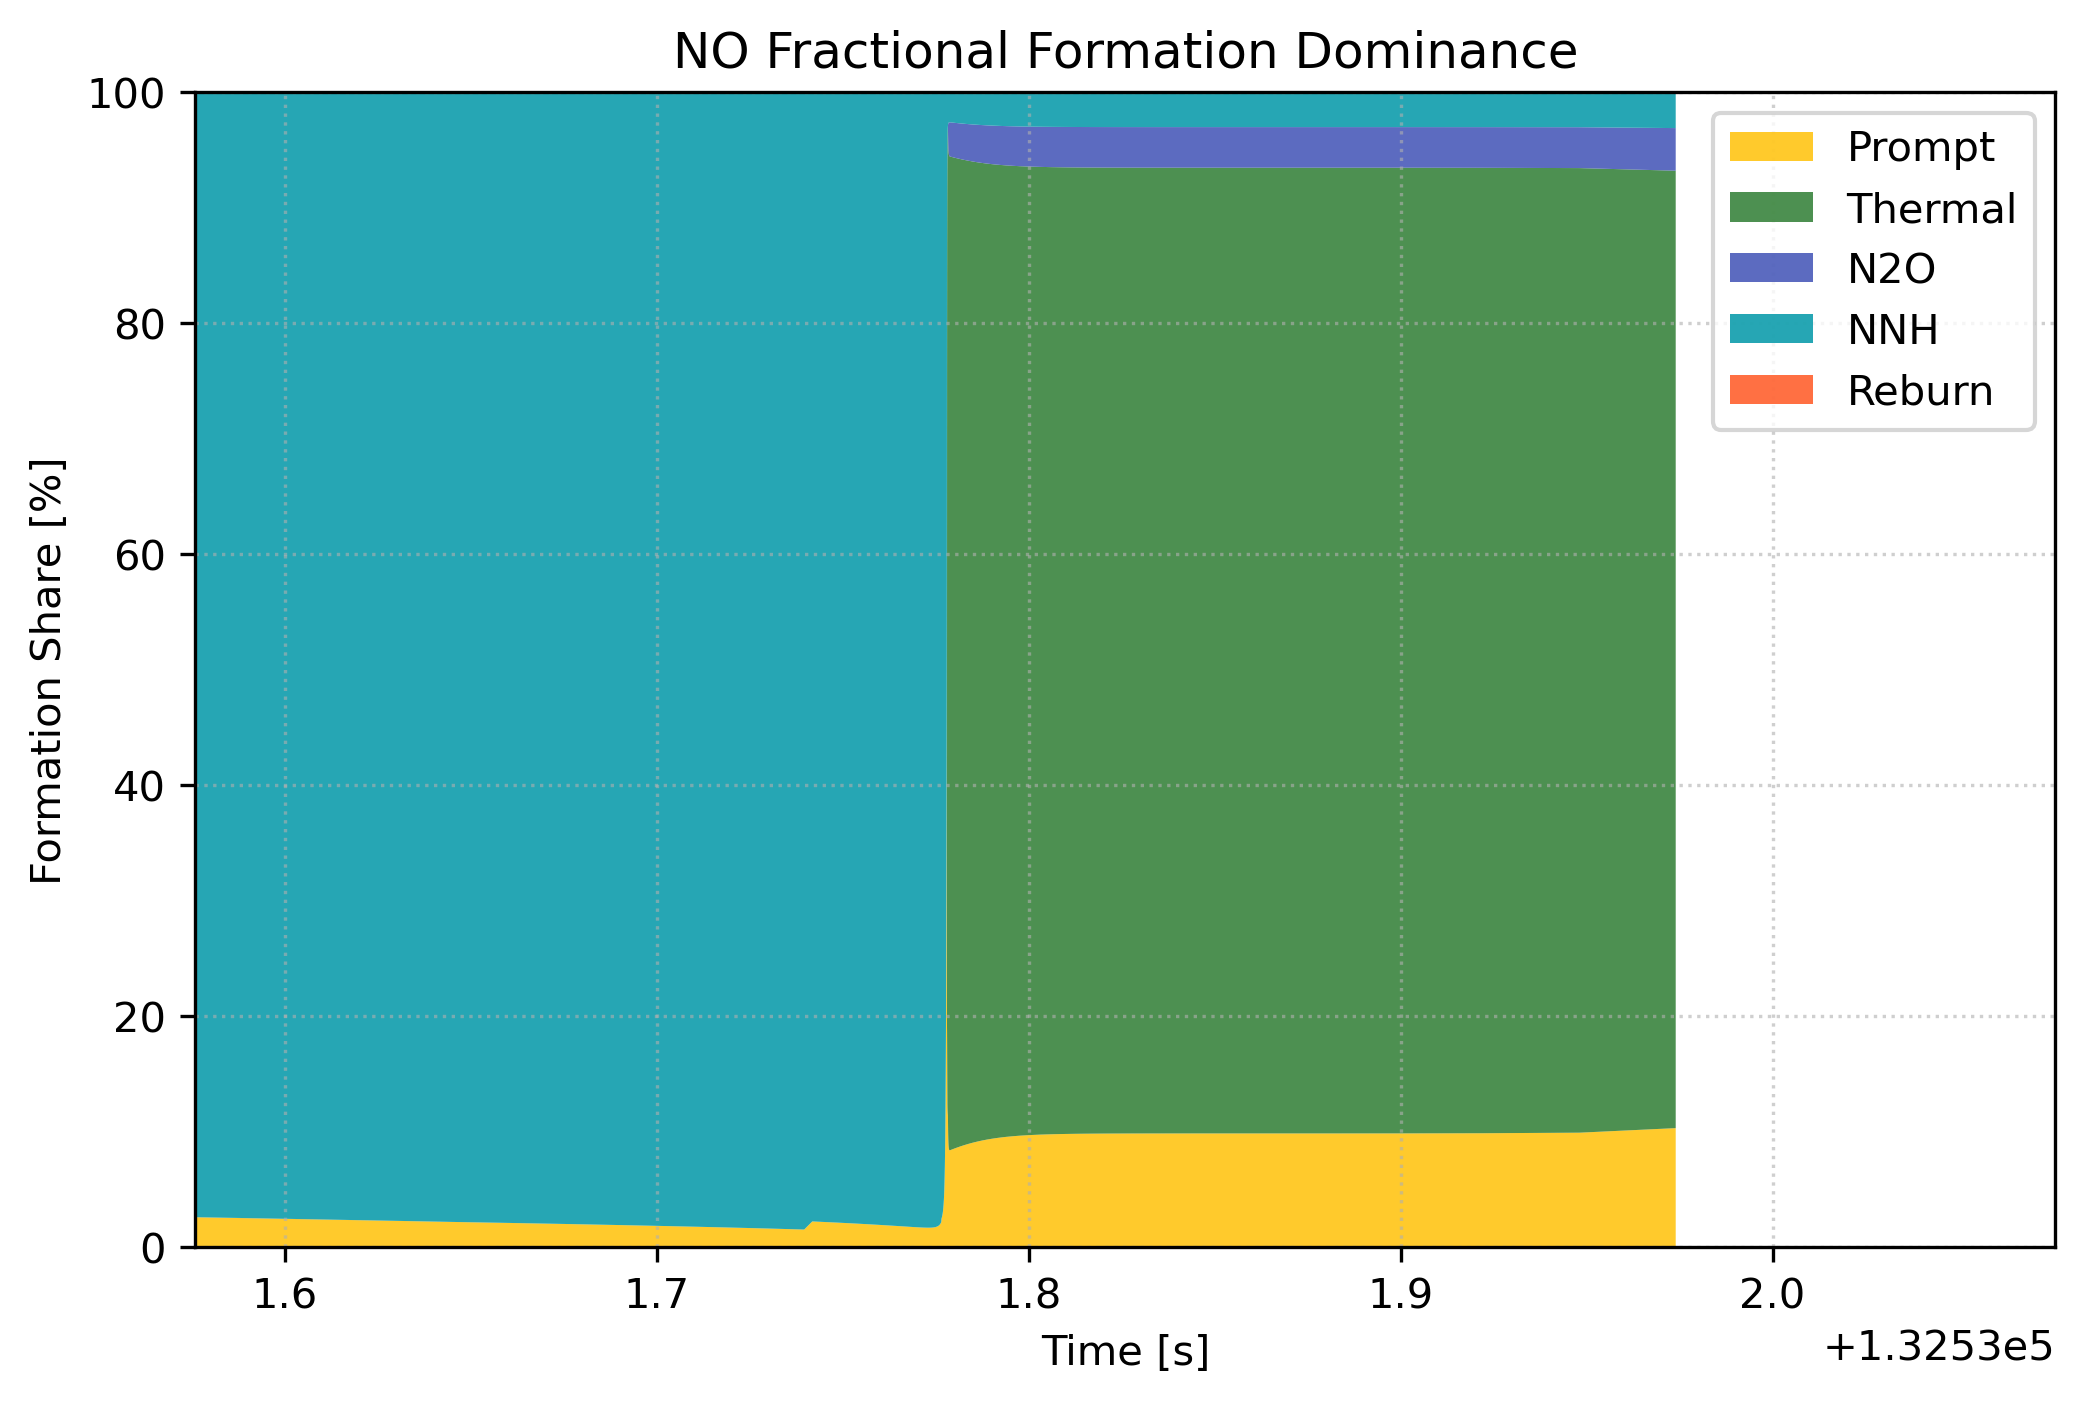
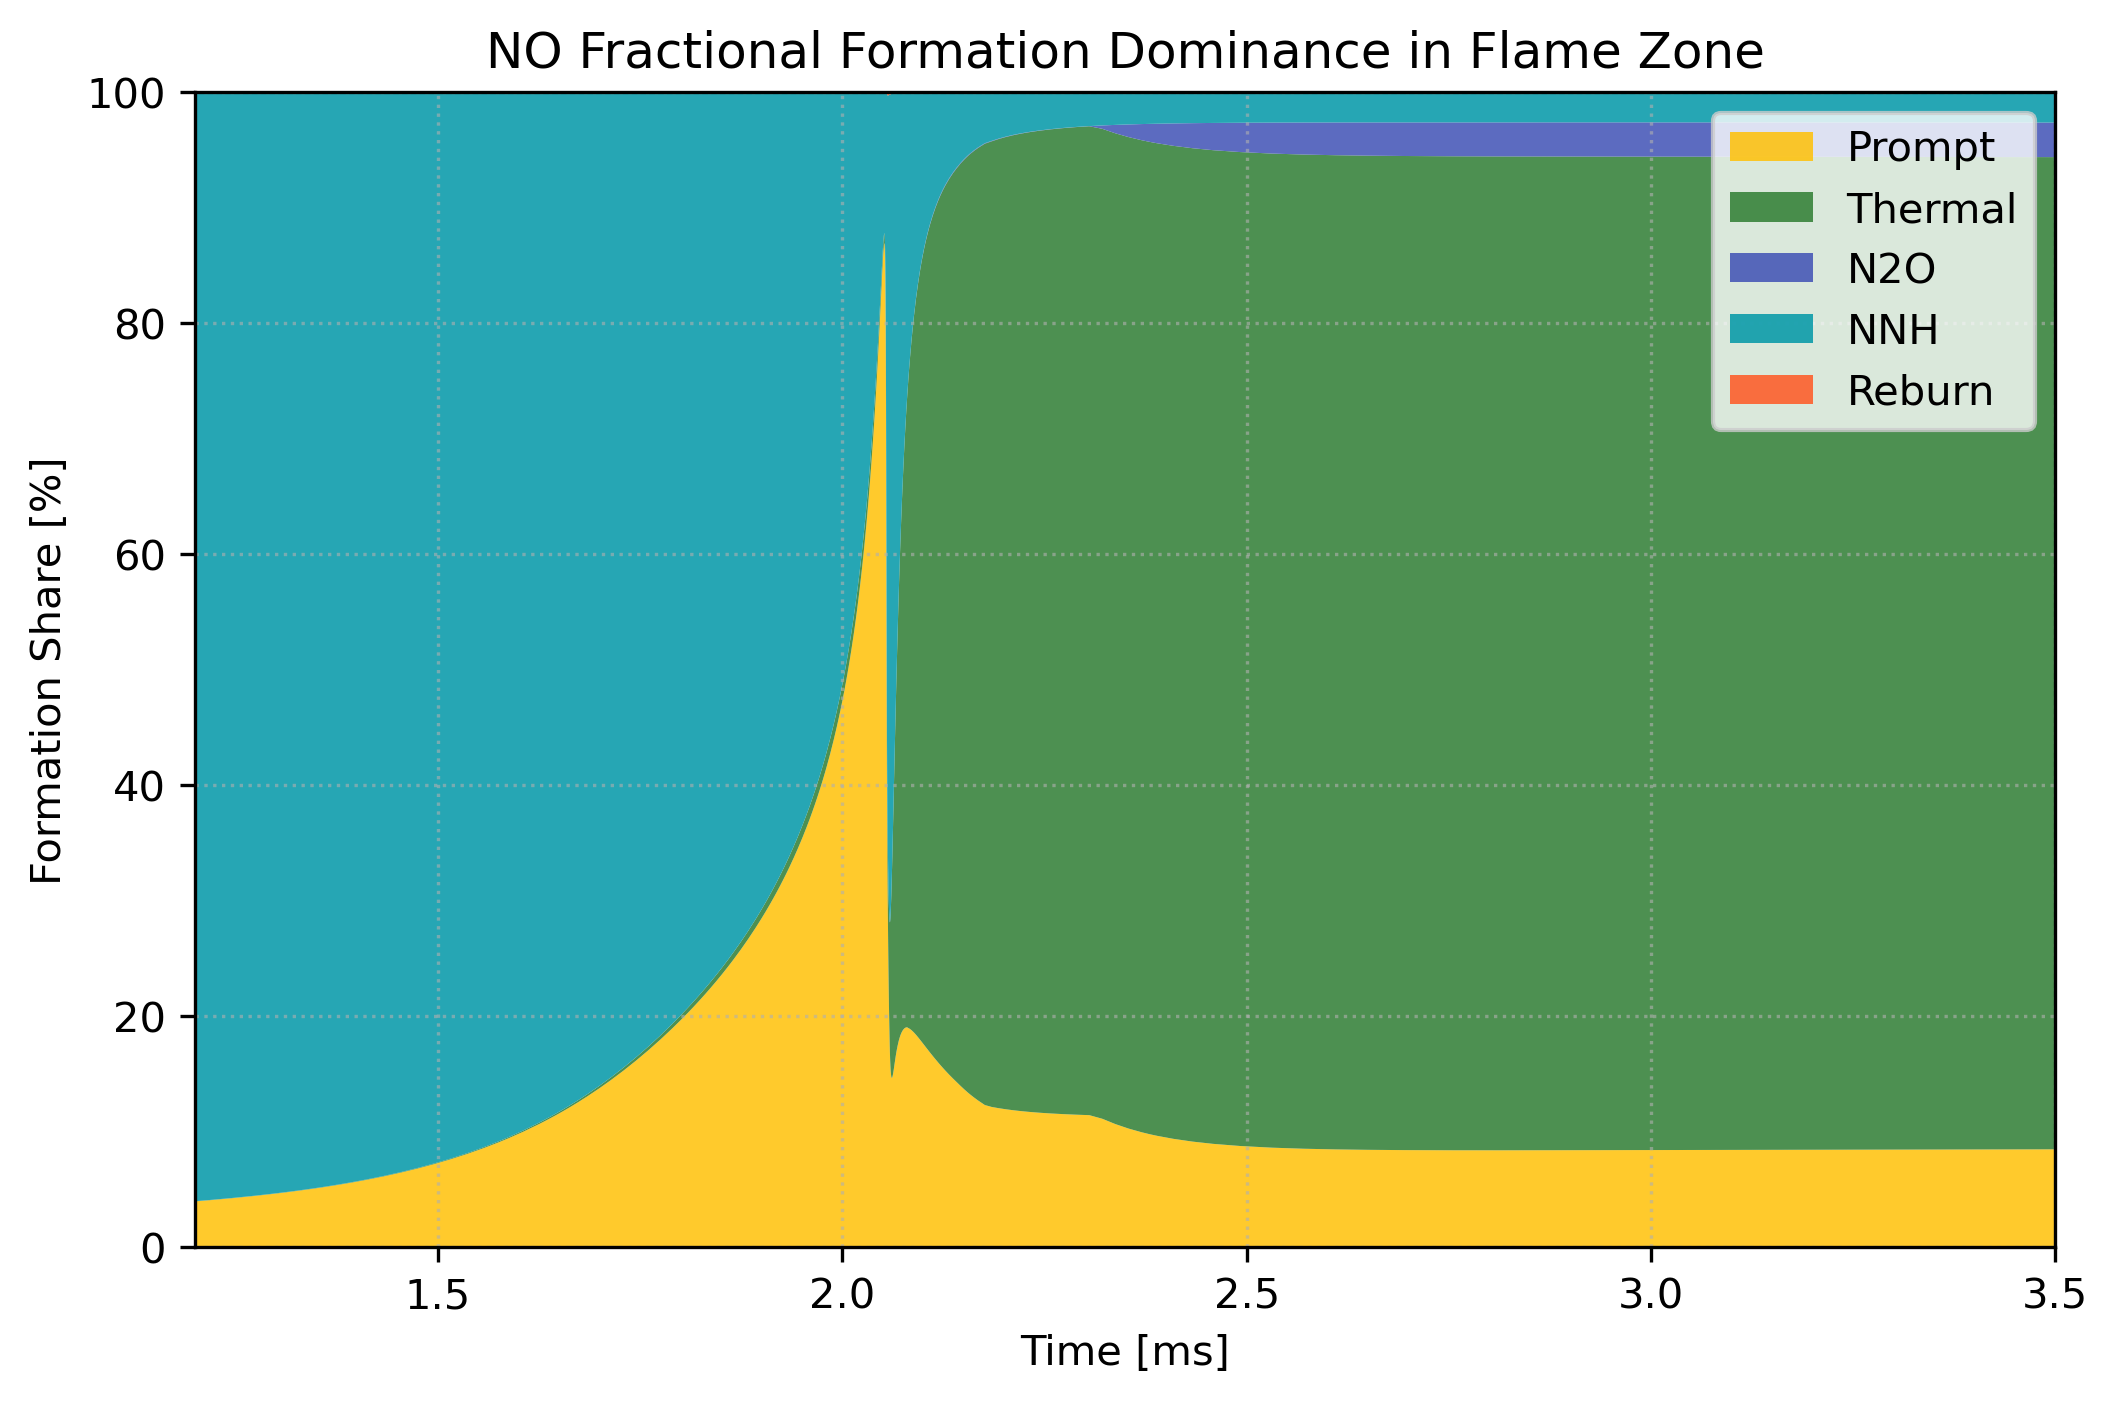
fix(plots): zoom in x-limits to clearly capture in-flame reaction zone dynamics

diff --git a/examples/01_single_stage_premixed.py b/examples/01_single_stage_premixed.py
@@ -40,6 +40,10 @@ def main():
     print(f"   Trajectory generated: {len(df)} states across auto-ignition.")
     print(f"   Temperature span: {df['T'].min():.1f} K -> {df['T'].max():.1f} K.")
 
+    # Zero-shift time relative to ignition onset (T >= 1000 K) so flame dynamics are centered
+    t_ignition = df.loc[df["T"] >= 1000.0, "time"].iloc[0]
+    df["time"] = df["time"] - t_ignition
+
     print("\n2. Executing pySMART Reaction Pathway Analysis...")
     result = smart.analyze(
         df=df,
@@ -56,25 +60,23 @@ def main():
     df_yields = result.get_cumulative_yields(target="NO")
     print(df_yields.to_string(index=False))
 
-    print("\n4. Generating publication diagnostic plots...")
+    print("\n4. Generating publication diagnostic plots zoomed in on flame zone...")
     
-    # 4a. Time-resolved allocated rates (U matrix)
-    # The flame reaction occurs over a sharp window, so we center x-limits around the active ignition zone
-    t_ignition = df.loc[df["T"] > 1000.0, "time"].iloc[0]
-    dt_window = 0.5  # 500 ms window covering induction through post-flame
-    t_min = max(0.0, t_ignition - 0.2)
-    t_max = t_ignition + 0.3
+    # Flame zone window: Prompt NO spikes at ~2.05 ms and Thermal NO rises at ~2.08 ms
+    # Zooming in to [1.2, 3.5] ms clearly exposes the flame front radical dynamics and prompt peak!
+    flame_xlim = (1.2, 3.5)
 
-    fig_rates, ax_rates = result.plot_rates(target="NO", t_ms=False)
-    ax_rates.set_xlim(t_min, t_max)
-    ax_rates.set_title("Allocated NO Source Rate (U Matrix)")
+    # 4a. Time-resolved allocated rates (U matrix)
+    fig_rates, ax_rates = result.plot_rates(target="NO", t_ms=True)
+    ax_rates.set_xlim(flame_xlim)
+    ax_rates.set_title("Allocated NO Source Rate in Flame Zone (U Matrix)")
     fig_rates.savefig("examples/01_rates_no.png", dpi=300, bbox_inches="tight")
     print("   Saved: examples/01_rates_no.png")
 
     # 4b. Fractional formation dominance stackplot
-    fig_dom, ax_dom = result.plot_dominance(target="NO", t_ms=False)
-    ax_dom.set_xlim(t_min, t_max)
-    ax_dom.set_title("NO Fractional Formation Dominance")
+    fig_dom, ax_dom = result.plot_dominance(target="NO", t_ms=True)
+    ax_dom.set_xlim(flame_xlim)
+    ax_dom.set_title("NO Fractional Formation Dominance in Flame Zone")
     fig_dom.savefig("examples/01_dominance_no.png", dpi=300, bbox_inches="tight")
     print("   Saved: examples/01_dominance_no.png")
 
@@ -85,9 +87,9 @@ def main():
     print("   Saved: examples/01_phase_portrait_no.png")
 
     # 4d. Cumulative accounting pools Q
-    fig_pools, ax_pools = result.plot_pools(target="NO", t_ms=False)
-    ax_pools.set_xlim(t_min, t_max)
-    ax_pools.set_title("Cumulative NO Accounting Pools (Q Matrix)")
+    fig_pools, ax_pools = result.plot_pools(target="NO", t_ms=True)
+    ax_pools.set_xlim(flame_xlim)
+    ax_pools.set_title("Cumulative NO Pools in Flame Zone (Q Matrix)")
     fig_pools.savefig("examples/01_pools_no.png", dpi=300, bbox_inches="tight")
     print("   Saved: examples/01_pools_no.png")
 

diff --git a/examples/02_multistage_staged_combustion.py b/examples/02_multistage_staged_combustion.py
@@ -101,11 +101,14 @@ def main():
     df, t_stage1_end = simulate_nrrl_staged_combustor()
     print(f"   Total composite trajectory: {len(df)} points across 2 stages.")
 
+    # Zero-shift time relative to the stage interface (t=0 at secondary fuel injection)
+    df["time_rel_boundary"] = df["time"] - t_stage1_end
+
     print("\n2. Executing pySMART Multi-Stage Jump Tracking (SMART-MS)...")
     result = smart.analyze(
         df=df,
         mech="gri30.yaml",
-        time_col="time",
+        time_col="time_rel_boundary",
         tracked_element="N",
         target_species="NO",
         stage_col="stage",    # Enables discrete stage mass-jump tracking
@@ -125,24 +128,34 @@ def main():
     df_hcn = result.get_cumulative_yields(target="HCN")
     print(df_hcn.to_string(index=False))
 
-    print("\n6. Generating diagnostic plots across stage boundary...")
+    print("\n6. Generating diagnostic plots zoomed in on stage interface & rich reaction zone...")
+    # Zoom limits: [-0.3 ms, 1.2 ms] around stage boundary
+    # Shows late Stage 1 flame exit followed by instantaneous mixing jump and rich reburning!
+    zoom_xlim = (-0.3, 1.2)
+
     # Plot NO rates
     fig_rates, ax_rates = result.plot_rates(target="NO", t_ms=True)
-    ax_rates.axvline(t_stage1_end * 1e3, color="gray", linestyle=":", label="Stage Boundary")
+    ax_rates.set_xlim(zoom_xlim)
+    ax_rates.axvline(0.0, color="gray", linestyle=":", label="Stage Boundary (t=0)")
+    ax_rates.set_title("Allocated NO Rates Across Stage Interface (SMART-MS)")
     ax_rates.legend(frameon=True)
     fig_rates.savefig("examples/02_multistage_rates_no.png", dpi=300, bbox_inches="tight")
     print("   Saved: examples/02_multistage_rates_no.png")
 
     # Plot NO pools
     fig_pools, ax_pools = result.plot_pools(target="NO", t_ms=True)
-    ax_pools.axvline(t_stage1_end * 1e3, color="gray", linestyle=":", label="Stage Boundary")
+    ax_pools.set_xlim(zoom_xlim)
+    ax_pools.axvline(0.0, color="gray", linestyle=":", label="Stage Boundary (t=0)")
+    ax_pools.set_title("Cumulative NO Pools Across Stage Interface (SMART-MS)")
     ax_pools.legend(frameon=True)
     fig_pools.savefig("examples/02_multistage_pools_no.png", dpi=300, bbox_inches="tight")
     print("   Saved: examples/02_multistage_pools_no.png")
 
     # Plot HCN rates (mirroring NRRL splt.plot_results_f target_sp='HCN')
     fig_hcn, ax_hcn = result.plot_rates(target="HCN", t_ms=True)
-    ax_hcn.axvline(t_stage1_end * 1e3, color="gray", linestyle=":", label="Stage Boundary")
+    ax_hcn.set_xlim(zoom_xlim)
+    ax_hcn.axvline(0.0, color="gray", linestyle=":", label="Stage Boundary (t=0)")
+    ax_hcn.set_title("Allocated HCN Rates Across Stage Interface (SMART-MS)")
     ax_hcn.legend(frameon=True)
     fig_hcn.savefig("examples/02_multistage_rates_hcn.png", dpi=300, bbox_inches="tight")
     print("   Saved: examples/02_multistage_rates_hcn.png")
